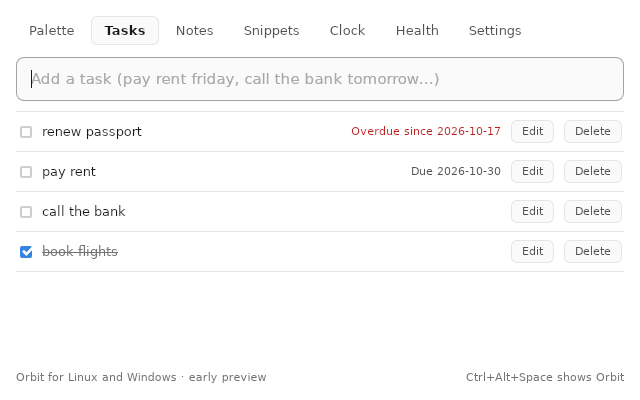
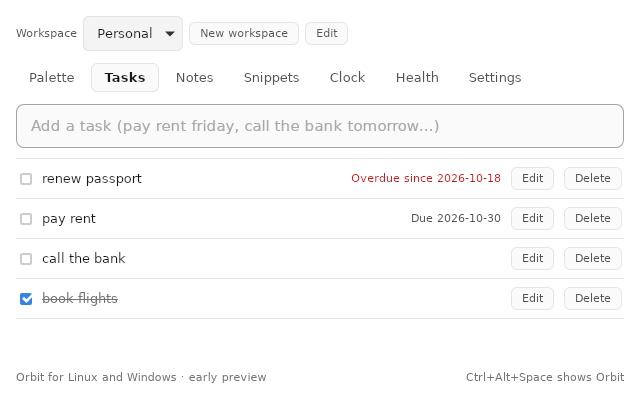
docs: publish desktop 0.2 preview

diff --git a/README.pt-BR.md b/README.pt-BR.md
@@ -6,7 +6,7 @@
 
 Uma central de comando para o seu Mac, pensada para você não precisar abrir seis apps para dar conta de um dia. Escolha um workspace e o Orbit vira aquilo que você está fazendo agora: seus apps e pastas, suas tarefas, seu timer, a saúde do seu Mac.
 
-[**Baixe para macOS**](../../releases/latest) · [**Linux 0.1.0 Preview**](https://github.com/carvalhobfr/orbit-releases/releases/tag/desktop-v0.1.0)
+[**Baixe para macOS**](../../releases/latest) · [**Linux 0.2.0 Preview**](https://github.com/carvalhobfr/orbit-releases/releases/tag/desktop-v0.2.0)
 
 [English](README.md) · **Português (BR)**
 
@@ -17,12 +17,12 @@ Uma central de comando para o seu Mac, pensada para você não precisar abrir se
 | Edição | Estado | Download |
 | --- | --- | --- |
 | Orbit para macOS | Estável, macOS 14 ou mais recente | [Última versão para Mac](https://github.com/carvalhobfr/orbit-releases/releases/latest) |
-| Orbit Desktop 0.1.0 para Linux | **Prévia** — menos recursos que o app nativo do Mac | [Downloads Linux e notas da versão](https://github.com/carvalhobfr/orbit-releases/releases/tag/desktop-v0.1.0) |
-| Orbit Desktop para Windows | **Ainda não disponível** | Os instaladores e as dependências de runtime ainda precisam de validação no Windows |
+| Orbit Desktop 0.2.0 para Linux | **Prévia** — menos recursos que o app nativo do Mac | [Downloads Linux e notas da versão](https://github.com/carvalhobfr/orbit-releases/releases/tag/desktop-v0.2.0) |
+| Orbit Desktop para Windows | **Ainda não disponível** | MSI/NSIS e checagens do pacote extraído passaram; instalação limpa e aceitação da interface real continuam pendentes |
 
-## Orbit Desktop 0.1.0 Preview
+## Orbit Desktop 0.2.0 Preview
 
-A edição Linux tem sua própria versão. **0.1.0 é uma prévia, sem equivalência de recursos com o app nativo do Mac.** Inclui inglês e português do Brasil. Os downloads para Windows só serão adicionados depois que os instaladores forem validados.
+A edição Linux tem sua própria versão. **0.2.0 é uma prévia, sem equivalência de recursos com o app nativo do Mac.** Inclui inglês e português do Brasil. Windows continua em rascunho separado até validar instalação limpa e interação real.
 
 | Recurso | Estado na prévia | Alcance ou limitação |
 | --- | --- | --- |
@@ -34,13 +34,16 @@ A edição Linux tem sua própria versão. **0.1.0 é uma prévia, sem equivalê
 | Busca de arquivos e pastas | Parcial | Nomes na pasta pessoal, com varredura limitada; os resultados podem ser incompletos; programas e scripts são mostrados na pasta, sem execução |
 | Bandeja, atalho global e abrir no login | Parcial | Dependem da sessão; Wayland precisa do portal de atalhos; a validação manual em GNOME/KDE reais segue pendente |
 | Voz, pesquisa com IA, organização de janelas e widgets | Não disponível | Esses recursos nativos do Mac não fazem parte desta prévia |
-| Workspaces, histórico do clipboard, limpeza e dispositivos | Não disponível | Não fazem parte da prévia desktop |
+| Workspaces e favoritos | Disponível | Criar/renomear/selecionar/ordenar/duplicar/arquivar; adicionar/editar/remover/ordenar favoritos e abrir explicitamente; trocar não abre nada |
+| Backup e restauração locais | Disponível | Salvar em Downloads, conferir contagens, confirmar substituição e preservar os dados anteriores; arquivos/apps/login/cache ficam fora |
+| Histórico do clipboard, limpeza e dispositivos | Não disponível | Não fazem parte da prévia desktop |
 | Sincronização com o app do Mac | Não disponível | As edições mantêm dados locais separados |
 
 ![Prévia Linux: paleta e conversão de moedas](images/desktop-linux-preview.png)
 ![Prévia Linux: tarefas](images/desktop-linux-preview-tasks.png)
+![Prévia Linux: backup local com dados de teste](images/desktop-linux-preview-backup.png)
 
-*Capturas Linux no Xvfb com tarefas de teste. Mostram a janela da prévia; a aceitação em sessões reais de desktop segue pendente.*
+*Capturas Linux no Xvfb com tarefas e backups de teste. Mostram a janela da prévia; a aceitação em sessões reais de desktop segue pendente.*
 
 ### Escolha o pacote Linux
 
@@ -48,19 +51,19 @@ Os pacotes são builds Release otimizados para a arquitetura indicada. Confira `
 
 | Arquitetura | Debian / Ubuntu | Fedora / RPM | AppImage portátil |
 | --- | --- | --- | --- |
-| x86_64 | [DEB](https://github.com/carvalhobfr/orbit-releases/releases/download/desktop-v0.1.0/Orbit-Desktop-0.1.0-linux-x86_64.deb) | [RPM](https://github.com/carvalhobfr/orbit-releases/releases/download/desktop-v0.1.0/Orbit-Desktop-0.1.0-linux-x86_64.rpm) | Indisponível nesta prévia |
-| arm64 | [DEB](https://github.com/carvalhobfr/orbit-releases/releases/download/desktop-v0.1.0/Orbit-Desktop-0.1.0-linux-arm64.deb) | [RPM](https://github.com/carvalhobfr/orbit-releases/releases/download/desktop-v0.1.0/Orbit-Desktop-0.1.0-linux-arm64.rpm) | [AppImage](https://github.com/carvalhobfr/orbit-releases/releases/download/desktop-v0.1.0/Orbit-Desktop-0.1.0-linux-arm64.AppImage) |
+| x86_64 | [DEB](https://github.com/carvalhobfr/orbit-releases/releases/download/desktop-v0.2.0/Orbit-Desktop-0.2.0-linux-x86_64.deb) | [RPM](https://github.com/carvalhobfr/orbit-releases/releases/download/desktop-v0.2.0/Orbit-Desktop-0.2.0-linux-x86_64.rpm) | Indisponível nesta prévia |
+| arm64 | [DEB](https://github.com/carvalhobfr/orbit-releases/releases/download/desktop-v0.2.0/Orbit-Desktop-0.2.0-linux-arm64.deb) | [RPM](https://github.com/carvalhobfr/orbit-releases/releases/download/desktop-v0.2.0/Orbit-Desktop-0.2.0-linux-arm64.rpm) | [AppImage](https://github.com/carvalhobfr/orbit-releases/releases/download/desktop-v0.2.0/Orbit-Desktop-0.2.0-linux-arm64.AppImage) |
 
-Baixe [SHA256SUMS](https://github.com/carvalhobfr/orbit-releases/releases/download/desktop-v0.1.0/SHA256SUMS) junto do pacote e confira com `sha256sum --ignore-missing -c SHA256SUMS`. Estes pacotes não têm assinatura digital.
+Baixe [SHA256SUMS](https://github.com/carvalhobfr/orbit-releases/releases/download/desktop-v0.2.0/SHA256SUMS) junto do pacote e confira com `sha256sum --ignore-missing -c SHA256SUMS`. Estes pacotes não têm assinatura digital.
 
 ### Instale a prévia Linux
 
-- Debian / Ubuntu: `sudo apt install ./Orbit-Desktop-0.1.0-linux-x86_64.deb` (troque x86_64 por arm64 para essa CPU).
-- Fedora: `sudo dnf install ./Orbit-Desktop-0.1.0-linux-x86_64.rpm` (troque a arquitetura quando necessário).
-- AppImage ARM64: `chmod +x Orbit-Desktop-0.1.0-linux-arm64.AppImage` e execute o arquivo. Ele precisa das bibliotecas básicas de um desktop e de FUSE; sem FUSE, use `APPIMAGE_EXTRACT_AND_RUN=1 ./Orbit-Desktop-0.1.0-linux-arm64.AppImage`.
+- Debian / Ubuntu: `sudo apt install ./Orbit-Desktop-0.2.0-linux-x86_64.deb` (troque x86_64 por arm64 para essa CPU).
+- Fedora: `sudo dnf install ./Orbit-Desktop-0.2.0-linux-x86_64.rpm` (troque a arquitetura quando necessário).
+- AppImage ARM64: `chmod +x Orbit-Desktop-0.2.0-linux-arm64.AppImage` e execute o arquivo. Favoritos de aplicativos também precisam do utilitário `gio` no host. Ele precisa das bibliotecas básicas de um desktop e de FUSE; sem FUSE, use `APPIMAGE_EXTRACT_AND_RUN=1 ./Orbit-Desktop-0.2.0-linux-arm64.AppImage`.
 - Abra **Orbit** pelo menu de aplicativos ou rode `orbit-desktop`. O atalho padrão da paleta é **Ctrl+Alt+Espaço**, quando a sessão oferece suporte.
 
-O arquivo de dados é local, em `~/.local/share/orbit-desktop/`; faça uma cópia dessa pasta antes de testar uma prévia com dados importantes. Sem telemetria ou sincronização automática. As notas da versão listam as checagens exatas dos pacotes e as limitações de plataforma restantes. As capturas e descrições de recursos abaixo mostram a **edição nativa do Mac**.
+O arquivo de dados é local, em `~/.local/share/orbit-desktop/`; faça uma cópia antes de atualizar. A 0.2 grava dados versão 7; a prévia Linux 0.1 pública não os lê. Ajustes exporta backups JSON locais e mostra prévia antes de confirmar a restauração; dados anteriores são copiados primeiro. IDs e vínculos de workspace são preservados. Caminhos podem precisar de edição em outro SO; não inclui importação do banco nativo Mac nem sincronização. Sem telemetria ou sincronização automática. As notas da versão listam as checagens exatas dos pacotes e as limitações de plataforma restantes. As capturas e descrições de recursos abaixo mostram a **edição nativa do Mac**.
 
 <br>
 

diff --git a/README.md b/README.md
@@ -6,7 +6,7 @@
 
 A command center for your Mac, built around the idea that you shouldn't open six apps to get one day done. Pick a workspace, and Orbit becomes the thing you are doing right now: your apps and folders, your tasks, your timer, your Mac's health.
 
-[**Download for macOS**](../../releases/latest) · [**Linux 0.1.0 Preview**](https://github.com/carvalhobfr/orbit-releases/releases/tag/desktop-v0.1.0)
+[**Download for macOS**](../../releases/latest) · [**Linux 0.2.0 Preview**](https://github.com/carvalhobfr/orbit-releases/releases/tag/desktop-v0.2.0)
 
 **English** · [Português (BR)](README.pt-BR.md)
 
@@ -17,12 +17,12 @@ A command center for your Mac, built around the idea that you shouldn't open six
 | Edition | Status | Download |
 | --- | --- | --- |
 | Orbit for macOS | Stable, macOS 14 or later | [Latest Mac release](https://github.com/carvalhobfr/orbit-releases/releases/latest) |
-| Orbit Desktop 0.1.0 for Linux | **Preview** — fewer features than the native Mac app | [Linux downloads and release notes](https://github.com/carvalhobfr/orbit-releases/releases/tag/desktop-v0.1.0) |
-| Orbit Desktop for Windows | **Not available yet** | Installers and runtime dependencies still need validation on Windows |
+| Orbit Desktop 0.2.0 for Linux | **Preview** — fewer features than the native Mac app | [Linux downloads and release notes](https://github.com/carvalhobfr/orbit-releases/releases/tag/desktop-v0.2.0) |
+| Orbit Desktop for Windows | **Not available yet** | MSI/NSIS builds and extracted-package checks passed; clean installation and real UI acceptance remain pending |
 
-## Orbit Desktop 0.1.0 Preview
+## Orbit Desktop 0.2.0 Preview
 
-The Linux edition has its own version. **0.1.0 is a preview, not feature parity with the native Mac app.** English and Brazilian Portuguese are included. Windows downloads will be added only after their installers have been validated.
+The Linux edition has its own version. **0.2.0 is a preview, not feature parity with the native Mac app.** English and Brazilian Portuguese are included. Windows remains a separate draft until clean installation and real interaction are accepted.
 
 | Feature | Preview status | Scope or limitation |
 | --- | --- | --- |
@@ -34,13 +34,16 @@ The Linux edition has its own version. **0.1.0 is a preview, not feature parity 
 | File and folder search | Partial | Names in the home folder, with a bounded scan; results can be incomplete; programs and scripts are shown in their folder rather than run |
 | Tray, global shortcut and open at login | Partial | Depend on the desktop session; Wayland needs its shortcut portal; real GNOME/KDE acceptance remains pending |
 | Voice, AI research, window arrangements and desktop widgets | Not available | These native Mac features are not part of this preview |
-| Workspaces, clipboard history, cleanup and device integrations | Not available | Not part of the desktop preview |
+| Workspaces and favorites | Available | Create/rename/select/order/duplicate/archive; favorite add/edit/remove/order and explicit opening; switching opens nothing |
+| Local backup and restore | Available | Save to Downloads, preview counts, confirm replacement and keep the exact previous data; files/apps/login/cache are excluded |
+| Clipboard history, cleanup and device integrations | Not available | Not part of the desktop preview |
 | Sync with the Mac app | Not available | The editions keep separate local data |
 
 ![Linux preview: palette and currency conversion](images/desktop-linux-preview.png)
 ![Linux preview: tasks](images/desktop-linux-preview-tasks.png)
+![Linux preview: local backup with fixture data](images/desktop-linux-preview-backup.png)
 
-*Linux captures under Xvfb with fixture tasks. They show the preview window; real desktop-session acceptance remains pending.*
+*Linux captures under Xvfb with fixture tasks and backup data. They show the preview window; real desktop-session acceptance remains pending.*
 
 ### Choose a Linux package
 
@@ -48,19 +51,19 @@ Packages are optimized Release builds for the named CPU architecture. Check `una
 
 | Architecture | Debian / Ubuntu | Fedora / RPM | Portable AppImage |
 | --- | --- | --- | --- |
-| x86_64 | [DEB](https://github.com/carvalhobfr/orbit-releases/releases/download/desktop-v0.1.0/Orbit-Desktop-0.1.0-linux-x86_64.deb) | [RPM](https://github.com/carvalhobfr/orbit-releases/releases/download/desktop-v0.1.0/Orbit-Desktop-0.1.0-linux-x86_64.rpm) | Not available in this preview |
-| arm64 | [DEB](https://github.com/carvalhobfr/orbit-releases/releases/download/desktop-v0.1.0/Orbit-Desktop-0.1.0-linux-arm64.deb) | [RPM](https://github.com/carvalhobfr/orbit-releases/releases/download/desktop-v0.1.0/Orbit-Desktop-0.1.0-linux-arm64.rpm) | [AppImage](https://github.com/carvalhobfr/orbit-releases/releases/download/desktop-v0.1.0/Orbit-Desktop-0.1.0-linux-arm64.AppImage) |
+| x86_64 | [DEB](https://github.com/carvalhobfr/orbit-releases/releases/download/desktop-v0.2.0/Orbit-Desktop-0.2.0-linux-x86_64.deb) | [RPM](https://github.com/carvalhobfr/orbit-releases/releases/download/desktop-v0.2.0/Orbit-Desktop-0.2.0-linux-x86_64.rpm) | Not available in this preview |
+| arm64 | [DEB](https://github.com/carvalhobfr/orbit-releases/releases/download/desktop-v0.2.0/Orbit-Desktop-0.2.0-linux-arm64.deb) | [RPM](https://github.com/carvalhobfr/orbit-releases/releases/download/desktop-v0.2.0/Orbit-Desktop-0.2.0-linux-arm64.rpm) | [AppImage](https://github.com/carvalhobfr/orbit-releases/releases/download/desktop-v0.2.0/Orbit-Desktop-0.2.0-linux-arm64.AppImage) |
 
-Download [SHA256SUMS](https://github.com/carvalhobfr/orbit-releases/releases/download/desktop-v0.1.0/SHA256SUMS) next to your package and check it with `sha256sum --ignore-missing -c SHA256SUMS`. These packages are not digitally signed.
+Download [SHA256SUMS](https://github.com/carvalhobfr/orbit-releases/releases/download/desktop-v0.2.0/SHA256SUMS) next to your package and check it with `sha256sum --ignore-missing -c SHA256SUMS`. These packages are not digitally signed.
 
 ### Install the Linux preview
 
-- Debian / Ubuntu: `sudo apt install ./Orbit-Desktop-0.1.0-linux-x86_64.deb` (replace x86_64 with arm64 for that CPU).
-- Fedora: `sudo dnf install ./Orbit-Desktop-0.1.0-linux-x86_64.rpm` (replace the architecture when needed).
-- ARM64 AppImage: `chmod +x Orbit-Desktop-0.1.0-linux-arm64.AppImage`, then run it. It needs a desktop's base libraries and FUSE; when FUSE is unavailable, use `APPIMAGE_EXTRACT_AND_RUN=1 ./Orbit-Desktop-0.1.0-linux-arm64.AppImage`.
+- Debian / Ubuntu: `sudo apt install ./Orbit-Desktop-0.2.0-linux-x86_64.deb` (replace x86_64 with arm64 for that CPU).
+- Fedora: `sudo dnf install ./Orbit-Desktop-0.2.0-linux-x86_64.rpm` (replace the architecture when needed).
+- ARM64 AppImage: `chmod +x Orbit-Desktop-0.2.0-linux-arm64.AppImage`, then run it. Application favorites also need the host's `gio` utility. It needs a desktop's base libraries and FUSE; when FUSE is unavailable, use `APPIMAGE_EXTRACT_AND_RUN=1 ./Orbit-Desktop-0.2.0-linux-arm64.AppImage`.
 - Start **Orbit** from the app menu, or run `orbit-desktop`. The default palette shortcut is **Ctrl+Alt+Space** where the session supports it.
 
-The data file is local, in `~/.local/share/orbit-desktop/`; back up that folder before testing a preview with important data. No telemetry or automatic sync. The release notes list the exact package checks and remaining platform limits. The screenshots and feature descriptions below show the **native Mac edition**.
+The data file is local, in `~/.local/share/orbit-desktop/`; back up that folder before upgrading. Version 0.2 writes data version 7; the public Linux 0.1 preview cannot read it. Settings exports local JSON backups and previews restoration before confirmation; previous data is copied first. Restore preserves IDs and workspace assignments. Paths may need editing on another OS; native Mac database import and sync are not included. No telemetry or automatic sync. The release notes list the exact package checks and remaining platform limits. The screenshots and feature descriptions below show the **native Mac edition**.
 
 <br>
 
